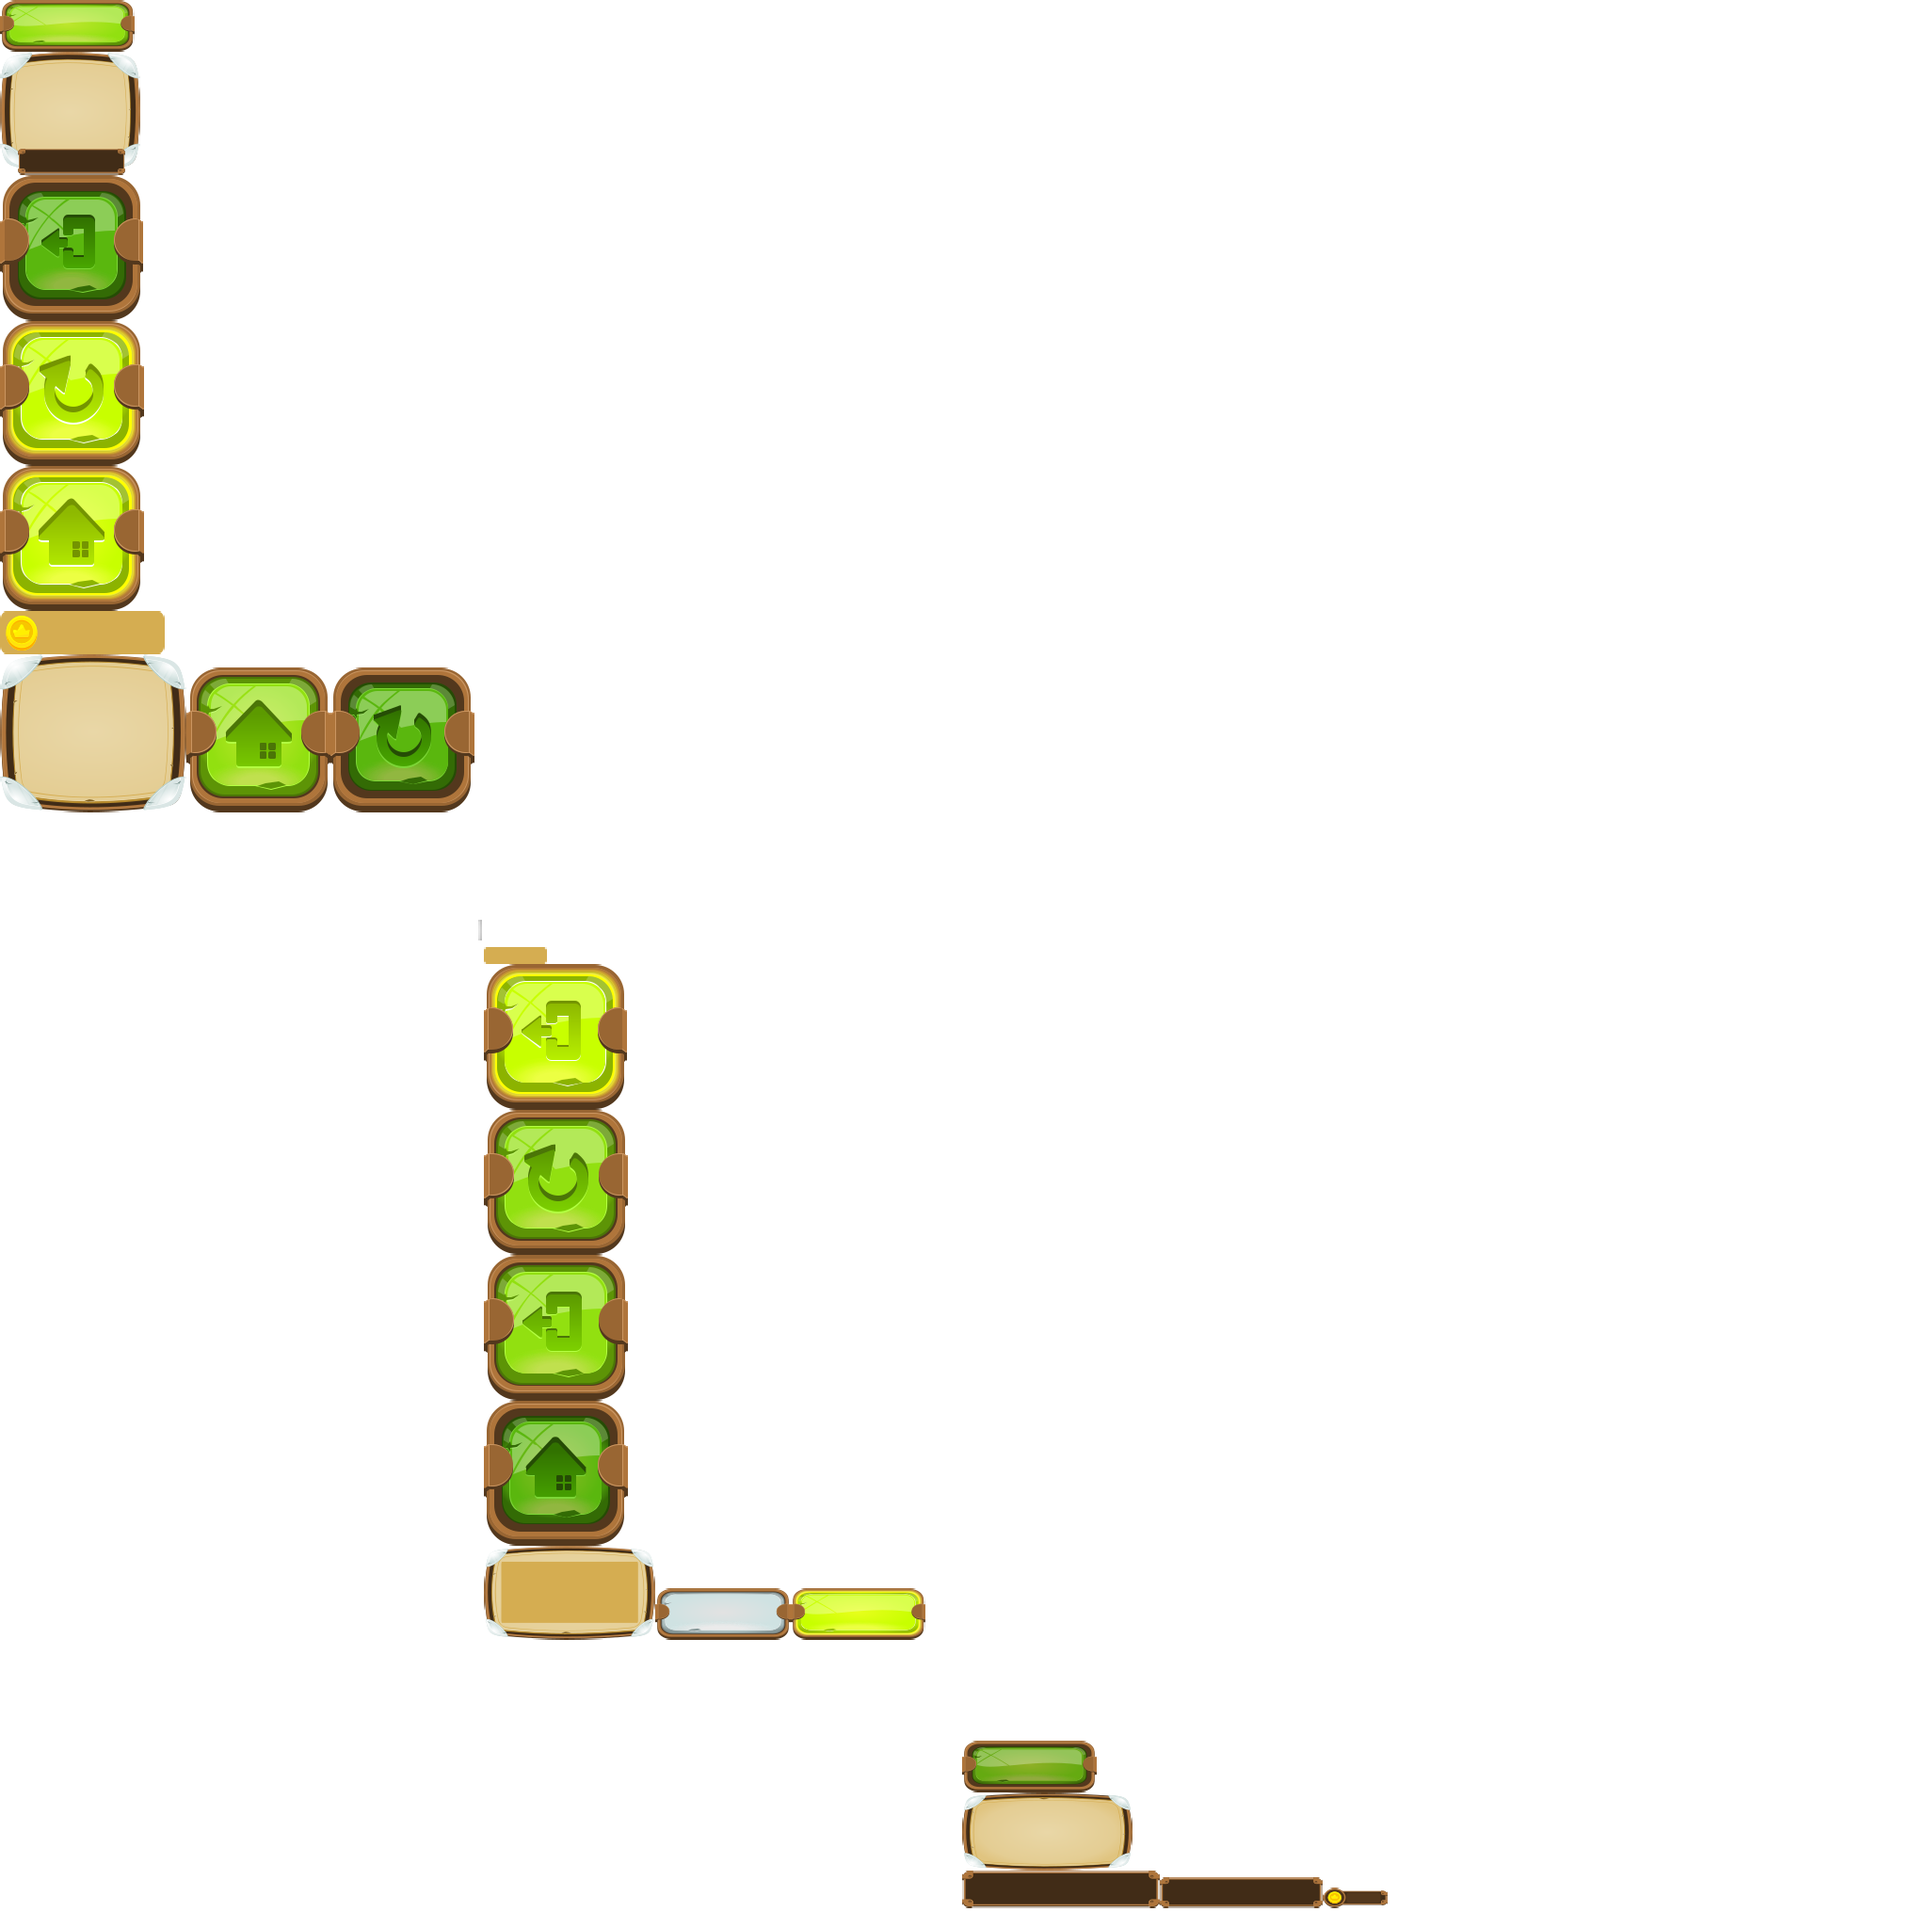
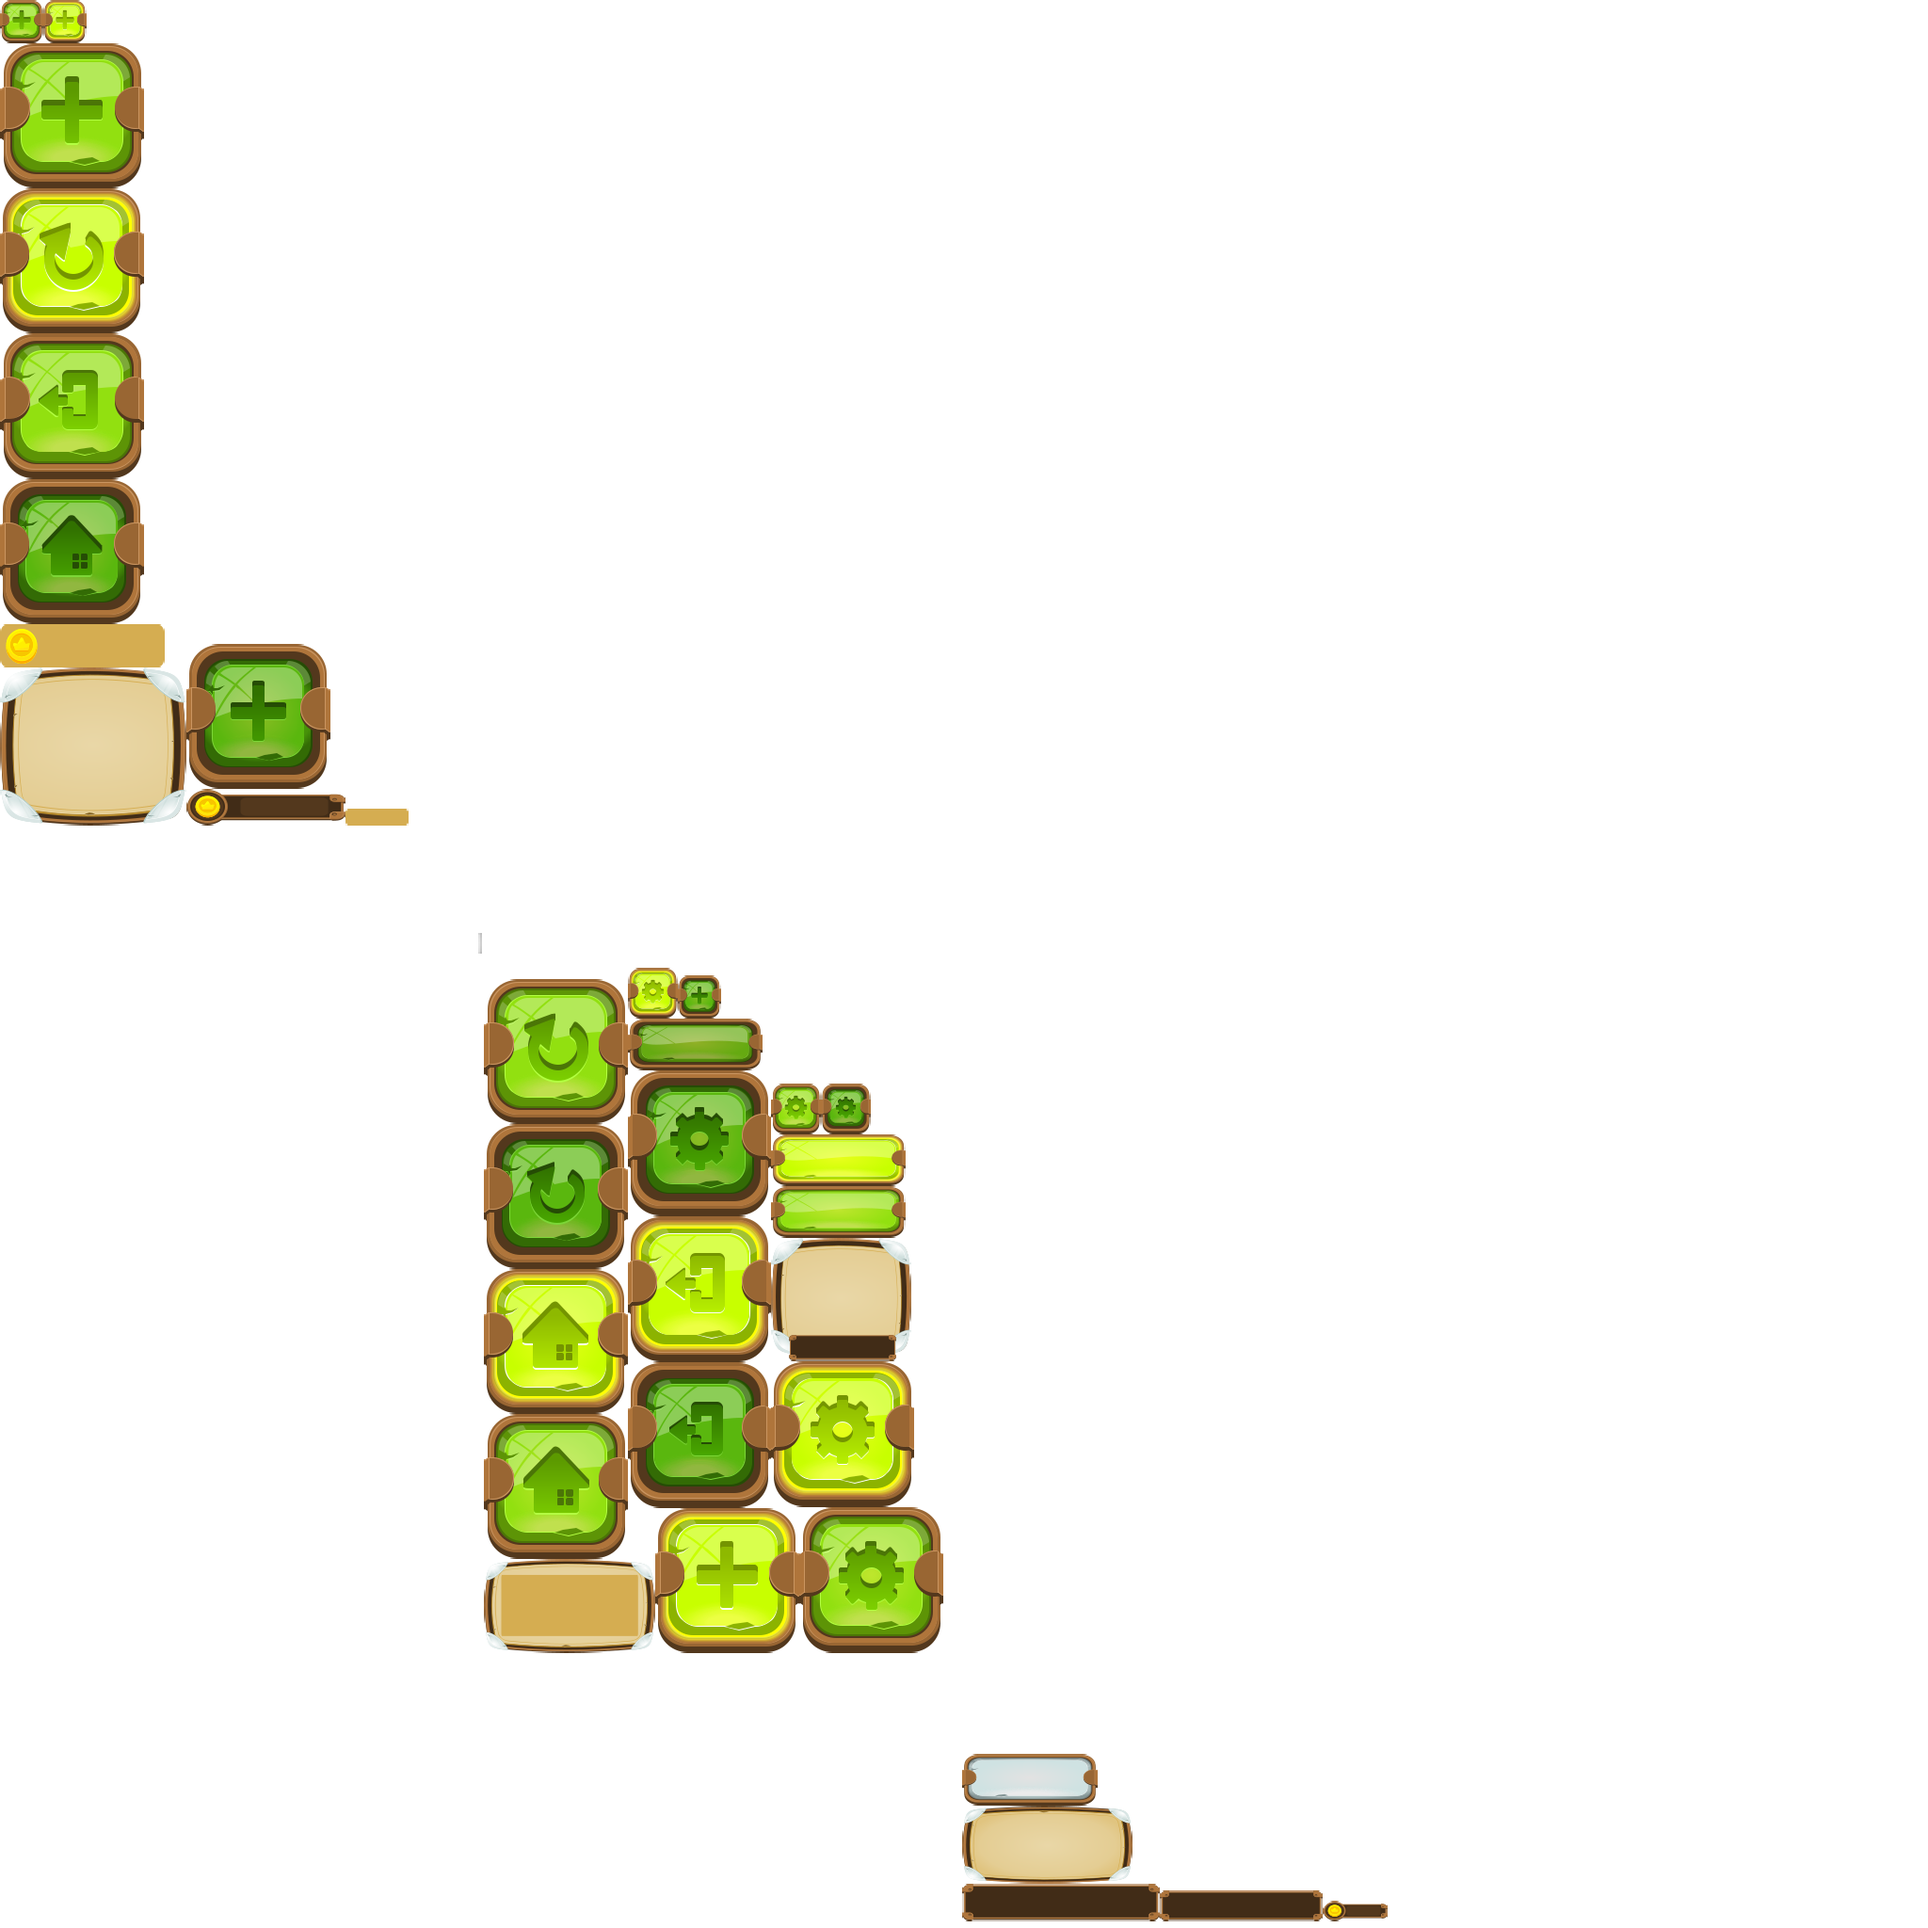
update

Changed region(s): [[0.25, 0.4688, 0.5, 0.875], [0.0, 0.0, 0.25, 0.4375], [0.5, 0.875, 0.7188, 1.0]]

diff --git a/core/src/com/isoterik/cash4life/double_cash/utils/UIHelper.java b/core/src/com/isoterik/cash4life/double_cash/utils/UIHelper.java
@@ -27,10 +27,15 @@ public final class UIHelper {
     private GameAssetsLoader assetsLoader;
     private Skin skin;
 
+    public Label balanceLabel;
+    public Button btnDeposit, btnSettings;
+
     public UIHelper(Stage canvas) {
         this.canvas = canvas;
         this.assetsLoader = MinGdx.instance().assets;
         this.skin = assetsLoader.getSkin(Constants.SKIN);
+
+        setupUI();
     }
 
     public void showYourTurn() {
@@ -223,6 +228,43 @@ public final class UIHelper {
         centerActor(window, canvas);
         centerActorOrigin(window);
         ActorAnimation.instance().slideIn(window, ActorAnimation.DOWN, .7f, Interpolation.swingOut);
+    }
+
+    private void setupUI() {
+        Window window = newTypedWindow("balance");
+        window.setModal(false);
+        window.pad(0).padLeft(20);
+
+        Window window2 = newTypedWindow("balance");
+        window2.setModal(false);
+        window2.pad(0);
+
+        balanceLabel = new Label("000000", skin, "main24");
+        //balanceLabel.setAlignment(Align.center);
+        balanceLabel.pack();
+
+        Label settings = new Label("Menu", skin, "main32");
+        settings.pack();
+
+        btnDeposit = new Button(skin, "plus-small");
+        btnSettings = new Button(skin, "settings-small");
+
+        window.add(balanceLabel).left().expandX();
+        window.add(btnDeposit).right();
+
+        window2.add(btnSettings).left();
+        window2.add(settings).right().expandX().padRight(20);
+
+        window2.pack();
+        window2.setX(canvas.getWidth() - window2.getWidth() - 20);
+        window2.setY(canvas.getHeight() - window2.getHeight() - 20);
+
+        window.pack();
+        window.setX(20);
+        window.setY(canvas.getHeight() - window.getHeight() - 20);
+
+        canvas.addActor(window);
+        canvas.addActor(window2);
     }
 
     public static void centerActor(Actor actor, Stage canvas) {

diff --git a/core/src/com/isoterik/cash4life/double_cash/scenes/GamePlayScene.java b/core/src/com/isoterik/cash4life/double_cash/scenes/GamePlayScene.java
@@ -10,6 +10,7 @@ import com.badlogic.gdx.scenes.scene2d.Action;
 import com.badlogic.gdx.scenes.scene2d.Actor;
 import com.badlogic.gdx.scenes.scene2d.Stage;
 import com.badlogic.gdx.scenes.scene2d.actions.Actions;
+import com.badlogic.gdx.scenes.scene2d.ui.Label;
 import com.badlogic.gdx.utils.Array;
 import com.badlogic.gdx.utils.Timer;
 import com.badlogic.gdx.utils.viewport.ExtendViewport;
@@ -91,7 +92,7 @@ public class GamePlayScene extends Scene {
             card.addComponent(new BoxDebugRenderer());
         }
 
-        newGame();
+        //newGame();
 
         inputManager.addListener(TouchTrigger.touchDownTrigger(), new CardClickListener());
     }
